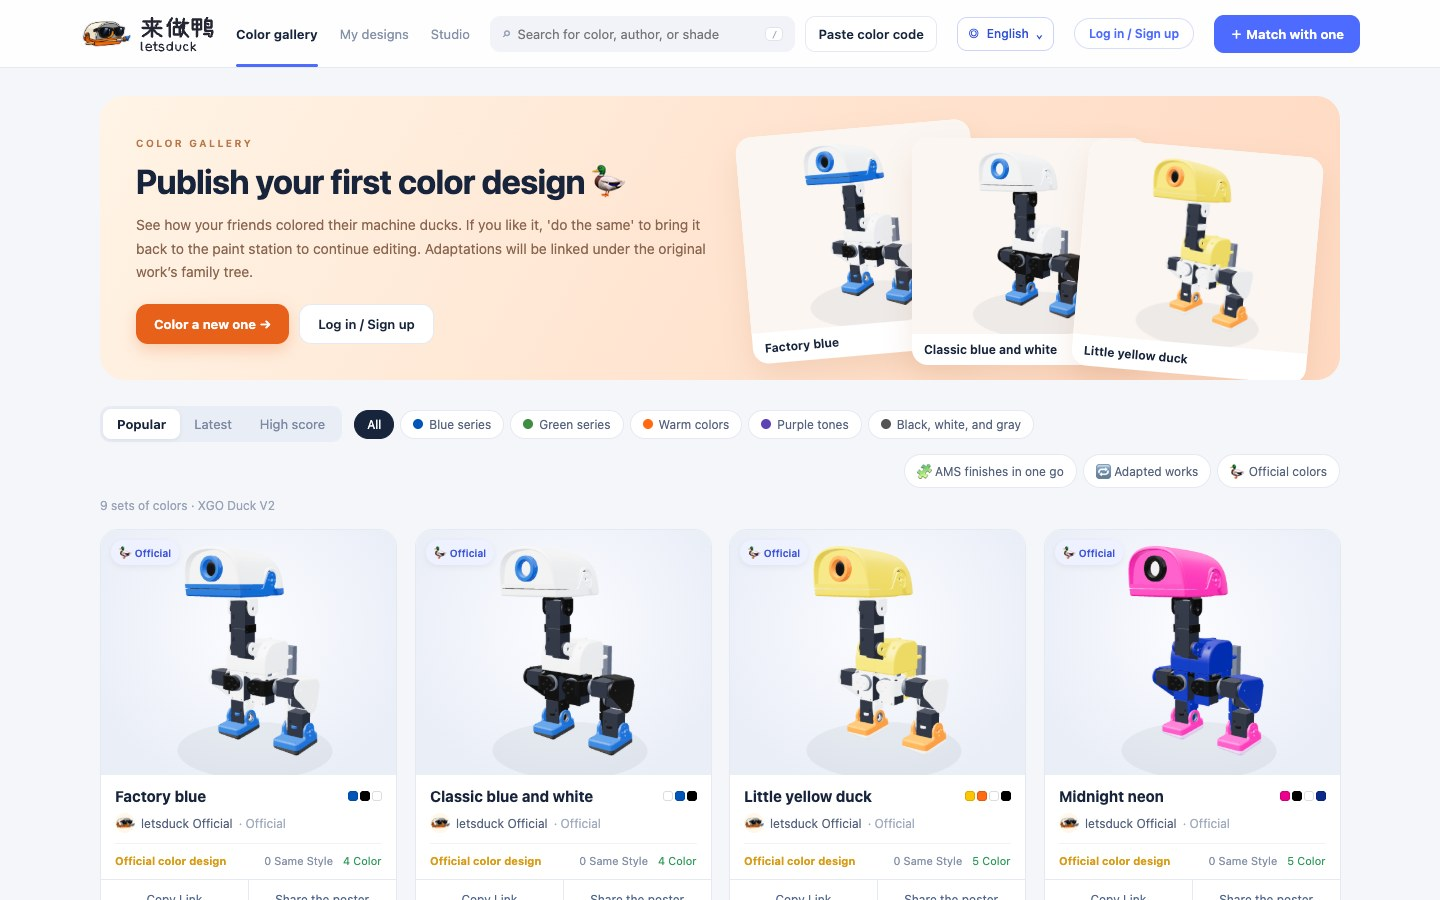
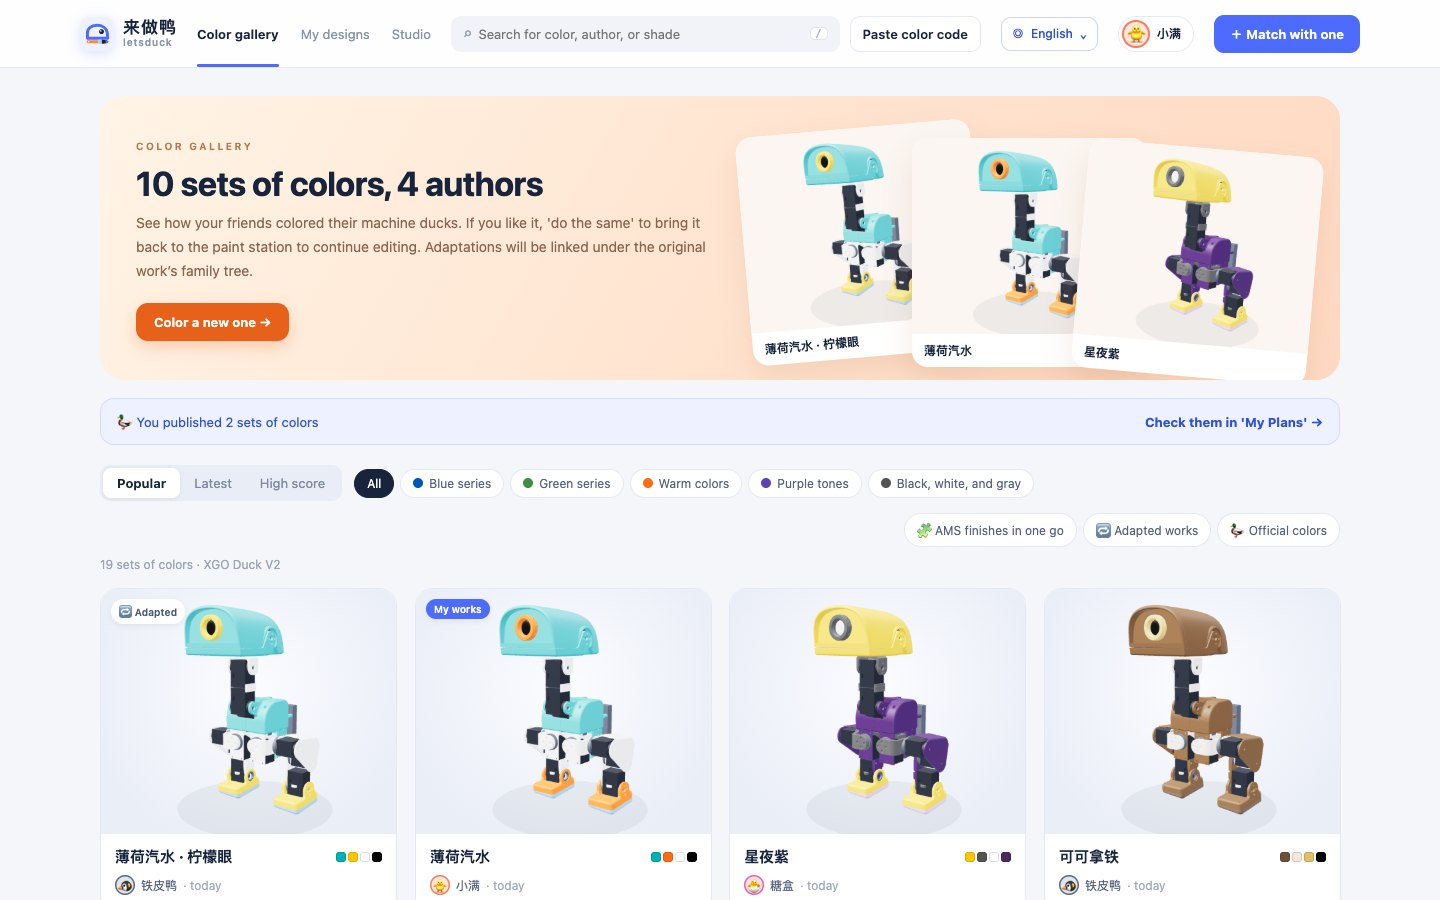
New 来做鸭 / letsduck mark: one-stroke duck head with a paintbrush jaw
The owner picked "C" from the icon prototype: a light-blue tile, a duck
head drawn in one thick blue stroke, and a paintbrush as the jaw that
has just painted it. The name is set in the system font.

- brand.mjs draws the mark inline (header, favicon, official author
  avatar); frontend/shared/brand/logo.svg is the same drawing for the
  README, kept equal by tests/test_brand.mjs.
- Removes the 826 KB avatar PNG (an AI adaptation of Pollen Robotics'
  MicroDuck art) and the three wordmark SVGs; THIRD_PARTY_NOTICES,
  .gitignore and the publication audit no longer special-case them.
- Traditional Chinese shows 來做鴨 in the header, tab title, poster and
  text (one sentence still said letsduck); German "Beamter" and the
  Arabic word order for "official" are fixed. The name follows live
  language switches.
- README screenshots retaken with the new header (both languages).

Checked: header and gallery in zh-Hans, zh-Hant, en, ja, de and ar at
1440, 390 and 320 px with no overflow; 67 Python, 7 personal and 42
Node tests; publication audit.

diff --git a/frontend/shared/brand.css b/frontend/shared/brand.css
@@ -1,10 +1,6 @@
-/* The approved MicroDuck avatar and compact, font-independent brand lettering. */
+/* 来做鸭 / letsduck: the one-stroke duck head with a paintbrush jaw, and the name in the system font.
+   Sizes and the wordmark's base style come from studio.css / gallery.css. */
 .brand{flex-shrink:0}
-.brand>.logo{width:51px;height:36px;filter:none}
-.brand>.wordmark{gap:0;line-height:1;direction:ltr;flex:none}
-.brand-zh{display:block;width:76px;height:25px}
-.brand-en{display:block;width:58px;height:13px}
-.avatar.official-avatar{background:#fff7e9}
+.brand .wordmark small{text-transform:none;letter-spacing:.8px;font-size:10px}
+.avatar.official-avatar{background:#eef1ff;box-shadow:none;overflow:hidden}
 .official-avatar>.logo{width:100%;height:100%;filter:none}
-@media(max-width:600px){.brand>.logo{width:43px;height:32px}.brand-zh{width:69px;height:23px}.brand-en{width:53px;height:12px}}
-@media(max-width:350px){.brand>.logo{width:36px;height:29px}.brand-zh{width:61px;height:21px}.brand-en{width:47px;height:11px}}

diff --git a/scripts/publication_audit.py b/scripts/publication_audit.py
@@ -13,7 +13,6 @@ RULES={
     'private-chat-link':rb'(?:chatgpt-conversation|codex)://[^\s]+',
     'credential-url':rb'https?://[^/\s:@]+:[^/\s@]+@',
 }
[1 lines of base64/hex data omitted]
 LOCAL_ONLY={'source.3mf','geometry.bin','geometry.pack.bin','model.json','catalog.json','export-schema.json'}
 # README screenshots/clips show model renders; the owner approved publishing them (2026-10-23).
 MEDIA,MEDIA_MAX='docs/media/',3_000_000
@@ -24,11 +23,10 @@ def audit():
     for name in filter(None,files):
         count+=1;p=ROOT/name
         if p.is_symlink():findings.append({'file':name,'rule':'symlink'});continue
-        brand=name in BRAND_ASSETS and hashlib.sha256(p.read_bytes()).hexdigest()==BRAND_ASSETS[name]
         media=name.startswith(MEDIA) and p.suffix.lower() in {'.jpg','.gif'}
         if media and p.stat().st_size>MEDIA_MAX:
             findings.append({'file':name,'rule':'readme-media-too-large'})
-        if p.name in LOCAL_ONLY or (not (media or brand) and p.suffix.lower() in {'.3mf','.stl','.zip','.bin','.png','.jpg','.gif','.webm','.mp4','.pdf'}):
+        if p.name in LOCAL_ONLY or (not media and p.suffix.lower() in {'.3mf','.stl','.zip','.bin','.png','.jpg','.gif','.webm','.mp4','.pdf'}):
             findings.append({'file':name,'rule':'local-only-or-unreviewed-binary'})
         if any(s in {'.env','.codex','.agents','.playwright-cli','.ryugi','node_modules','__pycache__'}for s in p.relative_to(ROOT).parts):
             findings.append({'file':name,'rule':'private-or-generated-path'})

diff --git a/THIRD_PARTY_NOTICES.md b/THIRD_PARTY_NOTICES.md
@@ -28,6 +28,6 @@ Review date: 2026-10-22. See [licensing research](docs/history/outputs/MicroDuck
 
 The screenshots and animated clips in `docs/media/` (used by the README) show renders of the separately licensed XGO Duck V2 model. The repository owner approved publishing them; they are not covered by the MIT licence. The people, works and ratings shown are sample data.
 
-## Project avatar
+## Project mark
 
-The owner selected frontend/shared/brand/avatar.png on 2026-10-23 for 来做鸭 / letsduck. It is an AI-generated adaptation of the [official MicroDuck head illustration](https://pollen-robotics.com/assets/microduck/stickers/duck-head-mark.webp), using an [official product photo](https://pollen-robotics.com/assets/microduck/gallery/closeup.webp) as a supporting reference. The adaptation adds black sunglasses and a paintbrush. It is not an official Pollen Robotics mark and is not covered by this repository's MIT licence; underlying design rights are not reassigned by the generation or the project rename. No new public redistribution permission is asserted here. The custom vector wordmarks are project artwork.
+The 来做鸭 / letsduck mark (`frontend/shared/brand/logo.svg`, drawn inline by `frontend/shared/brand.mjs`) is original project artwork under this repository's MIT licence: a duck head in one stroke whose jaw is a paintbrush. The name is set in the visitor's system font; no font files are shipped. The earlier avatar image (2026-10-23, an AI-generated adaptation of Pollen Robotics' MicroDuck head illustration) and its vector wordmarks were removed from the current tree.

diff --git a/docs/ryugi/specs/2026-10-23-letsduck-brand.md b/docs/ryugi/specs/2026-10-23-letsduck-brand.md
@@ -24,3 +24,11 @@
 | 浏览器模块检查 | Node 40 项通过；语法检查通过 |
 
 技术检查不等于用户对最终字形和视觉效果的验收。真实账号多人使用、云端部署和实物打印不在此次改名验收范围内。
+
+## 更新：图标与字标（2026-10-23 晚）
+
+用户在图标原型（4 个方向 × 3 种字体）中最终选定「C 一笔画」：浅蓝底，一笔粗线勾出鸭头，下巴是一支刚画完的画笔（蓝色笔尖）；名字使用系统字体。
+
+- 图标为原创 SVG（`frontend/shared/brand.mjs` 内联，`frontend/shared/brand/logo.svg` 供 README 使用，`tests/test_brand.mjs` 保证两者一致），同时用作网站图标和官方作者头像。
+- 删除此前的头像 PNG（826 KB）与三份字标 SVG；顶栏改回系统字体文字字标「来做鸭 / letsduck」，不下载字体。
+- 12 种语言中带品牌名的文案统一检查：繁体中文改为「來做鴨」，修正德语「Beamter」与阿拉伯语语序。

diff --git a/README.en.md b/README.en.md
@@ -2,7 +2,7 @@
 
 # letsduck · 来做鸭
 
-<p align="center"><img src="frontend/shared/brand/avatar.png" width="230" alt="来做鸭 letsduck"><br><img src="frontend/shared/brand/wordmark-display.svg" width="240" alt="来做鸭"><br><img src="frontend/shared/brand/wordmark-en.svg" width="150" alt="letsduck"></p>
+<p align="center"><img src="frontend/shared/brand/logo.svg" width="128" alt="来做鸭 letsduck"></p>
 
 
 A painting studio for the XGO Duck V2 robot duck: pick colours in three steps, make it nod, quack and sway, share a poster with friends, then export a recoloured 3MF (print structure preserved) for a print service. It comes in two editions: a double-click **personal edition**, and a **server edition** with a colour gallery, ratings and remixes.

diff --git a/README.md b/README.md
@@ -2,7 +2,7 @@
 
 # 来做鸭 / letsduck
 
-<p align="center"><img src="frontend/shared/brand/avatar.png" width="230" alt="来做鸭 letsduck"><br><img src="frontend/shared/brand/wordmark-display.svg" width="240" alt="来做鸭"><br><img src="frontend/shared/brand/wordmark-en.svg" width="150" alt="letsduck"></p>
+<p align="center"><img src="frontend/shared/brand/logo.svg" width="128" alt="来做鸭 letsduck"></p>
 
 
 给 XGO Duck V2 机器鸭涂装的小工具：三步配好颜色，让它点头、嘎嘎叫、摇摆，生成海报分享给朋友，再导出保留打印结构的改色 3MF 交给代打服务商。分两个版本：双击即用的**个人使用版**，和带配色广场、评分、「做同款」的**服务器版**。
